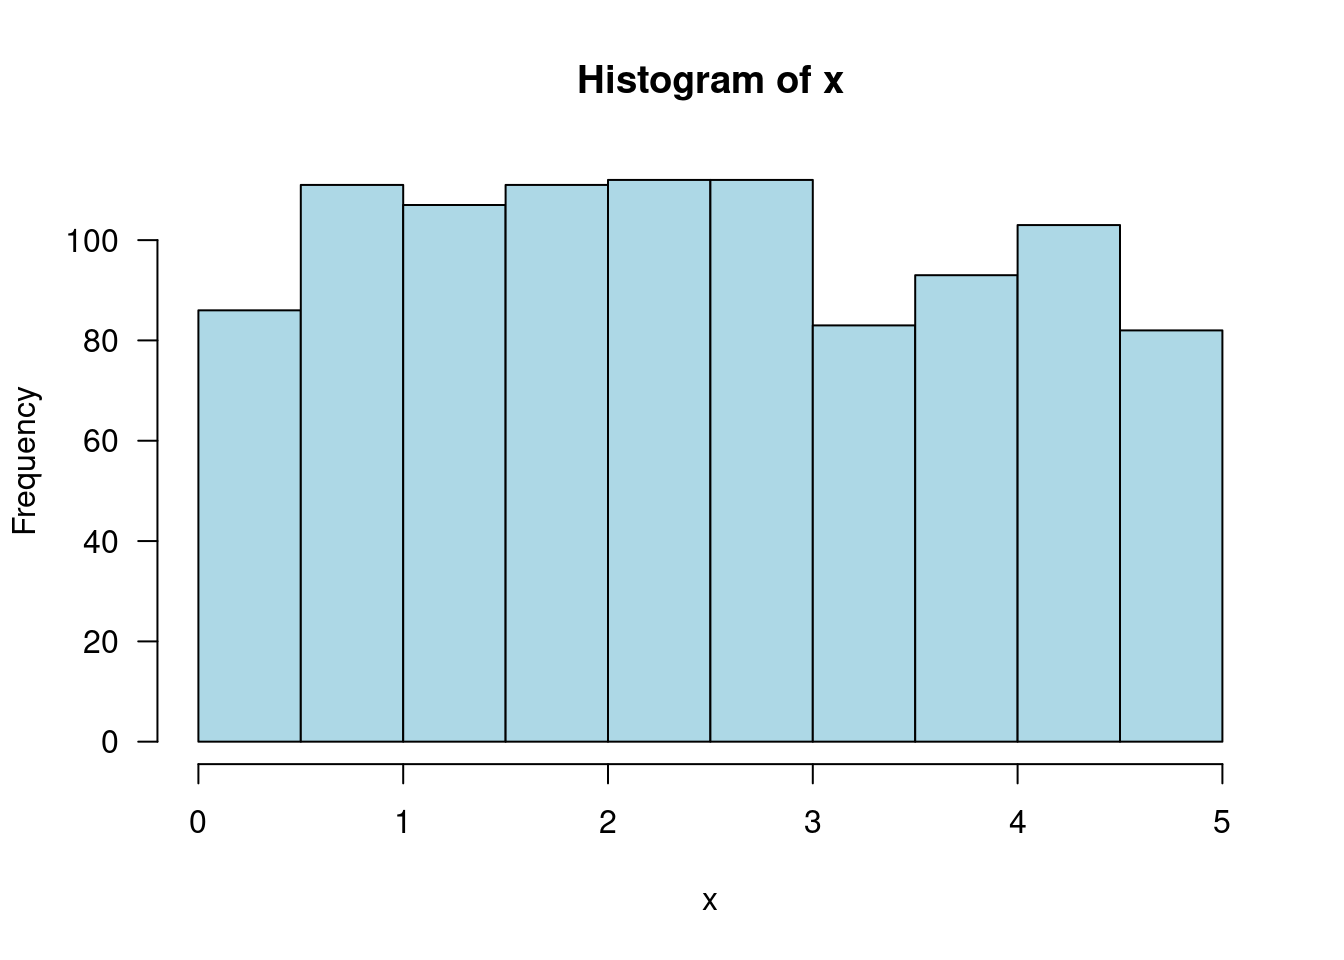
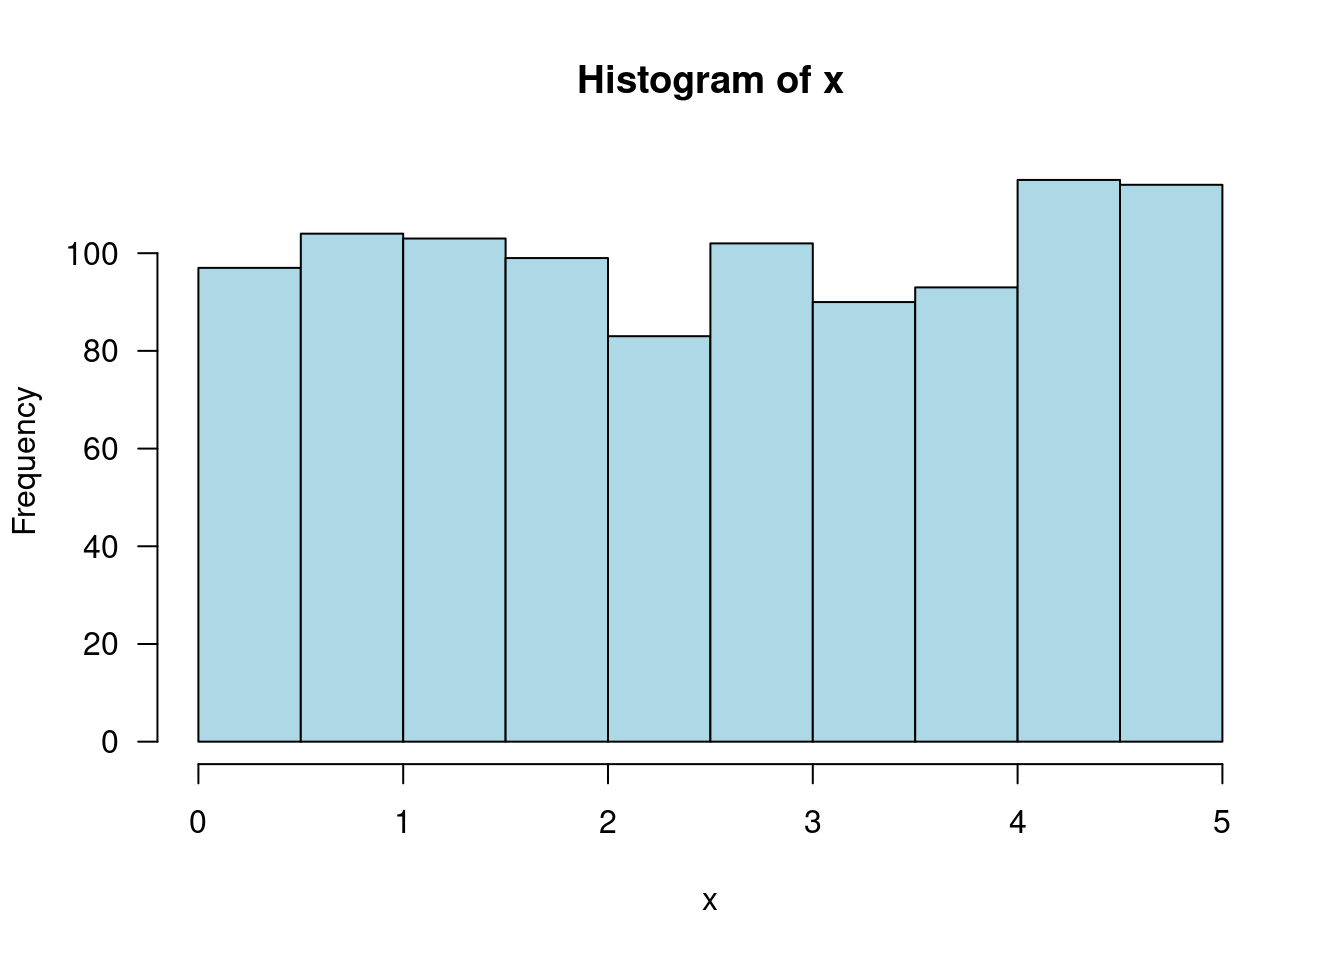
Deploying to gh-pages from @ jtr13/1201@b207cd0bbda654afca53f6d8b6f0e8fd9f7e5606 🚀

diff --git a/ch.-4-continuous-random-variables-and-probability-distributions.html b/ch.-4-continuous-random-variables-and-probability-distributions.html
@@ -81,12 +81,12 @@
 <p><span class="math inline">\(f(x) = .2\)</span> for <span class="math inline">\(0 \leq x \leq 5\)</span>, 0 otherwise.</p>
 <div class="sourceCode" id="cb157"><pre class="downlit sourceCode r">
 <code class="sourceCode R"><span><span class="fu"><a href="https://rdrr.io/r/stats/Uniform.html">runif</a></span><span class="op">(</span>n <span class="op">=</span> <span class="fl">1</span>, min <span class="op">=</span> <span class="fl">0</span>, max <span class="op">=</span> <span class="fl">5</span><span class="op">)</span></span></code></pre></div>
-<pre><code>## [1] 1.462599</code></pre>
+<pre><code>## [1] 3.539538</code></pre>
 <p>Take the average of 1000 picks:</p>
 <div class="sourceCode" id="cb159"><pre class="downlit sourceCode r">
 <code class="sourceCode R"><span><span class="va">x</span> <span class="op">&lt;-</span> <span class="fu"><a href="https://rdrr.io/r/stats/Uniform.html">runif</a></span><span class="op">(</span>n <span class="op">=</span> <span class="fl">1000</span>, min <span class="op">=</span> <span class="fl">0</span>, max <span class="op">=</span> <span class="fl">5</span><span class="op">)</span></span>
 <span><span class="fu"><a href="https://rdrr.io/r/base/mean.html">mean</a></span><span class="op">(</span><span class="va">x</span><span class="op">)</span></span></code></pre></div>
-<pre><code>## [1] 2.441114</code></pre>
+<pre><code>## [1] 2.545752</code></pre>
 <p>Draw a histogram of the 1000 picks:</p>
 <div class="sourceCode" id="cb161"><pre class="downlit sourceCode r">
 <code class="sourceCode R"><span><span class="fu"><a href="https://rdrr.io/r/graphics/hist.html">hist</a></span><span class="op">(</span><span class="va">x</span>, las <span class="op">=</span> <span class="fl">1</span>, col <span class="op">=</span> <span class="st">"lightblue"</span><span class="op">)</span></span></code></pre></div>
@@ -269,7 +269,7 @@ aid, sothat <em>p = .25</em>. What is the probability that at most 10 students r
 <footer class="bg-primary text-light mt-5"><div class="container"><div class="row">
 
   <div class="col-12 col-md-6 mt-3">
-    <p>"<strong>Stat 1201 Resources</strong>" was written by Joyce Robbins. It was last built on 2024-01-24.</p>
+    <p>"<strong>Stat 1201 Resources</strong>" was written by Joyce Robbins. It was last built on 2024-01-25.</p>
   </div>
 
   <div class="col-12 col-md-6 mt-3">

diff --git a/ch.-1-descriptive-statistics.html b/ch.-1-descriptive-statistics.html
@@ -76,12 +76,12 @@
 <p><strong>Ex:</strong> To generate a sample of 6 numbers from the integers between 1 and 20:</p>
 <div class="sourceCode" id="cb25"><pre class="downlit sourceCode r">
 <code class="sourceCode R"><span><span class="fu"><a href="https://rdrr.io/r/base/sample.html">sample</a></span><span class="op">(</span>x <span class="op">=</span> <span class="fl">1</span><span class="op">:</span><span class="fl">20</span>, size  <span class="op">=</span> <span class="fl">6</span><span class="op">)</span></span></code></pre></div>
-<pre><code>## [1]  5 19 13  9  1  8</code></pre>
+<pre><code>## [1] 17 19 20 16  1  4</code></pre>
 <p>Note: this syntax assumes that there is no replacement (it won’t pick the same number twice).
 If you want to sample <em>with</em> replacement use the following:</p>
 <div class="sourceCode" id="cb27"><pre class="downlit sourceCode r">
 <code class="sourceCode R"><span><span class="fu"><a href="https://rdrr.io/r/base/sample.html">sample</a></span><span class="op">(</span>x <span class="op">=</span> <span class="fl">1</span><span class="op">:</span><span class="fl">20</span>, size <span class="op">=</span> <span class="fl">8</span>, replace <span class="op">=</span> <span class="cn">TRUE</span><span class="op">)</span></span></code></pre></div>
-<pre><code>## [1]  5 18 19 16 10  1 20 15</code></pre>
+<pre><code>## [1] 20 20 17  4 12 14 15  5</code></pre>
 </div>
 <div id="pictorial-and-tabular-methods-in-descriptive-statistics" class="section level2 unnumbered" number="">
 <h2>1.2 Pictorial and Tabular Methods in Descriptive Statistics<a class="anchor" aria-label="anchor" href="#pictorial-and-tabular-methods-in-descriptive-statistics"><i class="fas fa-link"></i></a>
@@ -367,7 +367,7 @@ We use an almost identical syntax to generate density histograms, but add a cond
 <footer class="bg-primary text-light mt-5"><div class="container"><div class="row">
 
   <div class="col-12 col-md-6 mt-3">
-    <p>"<strong>Stat 1201 Resources</strong>" was written by Joyce Robbins. It was last built on 2024-01-24.</p>
+    <p>"<strong>Stat 1201 Resources</strong>" was written by Joyce Robbins. It was last built on 2024-01-25.</p>
   </div>
 
   <div class="col-12 col-md-6 mt-3">

diff --git a/404.html b/404.html
@@ -84,7 +84,7 @@ the table of contents to find the page you are looking for.</p>
 <footer class="bg-primary text-light mt-5"><div class="container"><div class="row">
 
   <div class="col-12 col-md-6 mt-3">
-    <p>"<strong>Stat 1201 Resources</strong>" was written by Joyce Robbins. It was last built on 2024-01-24.</p>
+    <p>"<strong>Stat 1201 Resources</strong>" was written by Joyce Robbins. It was last built on 2024-01-25.</p>
   </div>
 
   <div class="col-12 col-md-6 mt-3">

diff --git a/ch.-5-joint-probability.html b/ch.-5-joint-probability.html
@@ -147,7 +147,7 @@ Two points are needed to calculate r.
 <footer class="bg-primary text-light mt-5"><div class="container"><div class="row">
 
   <div class="col-12 col-md-6 mt-3">
-    <p>"<strong>Stat 1201 Resources</strong>" was written by Joyce Robbins. It was last built on 2024-01-24.</p>
+    <p>"<strong>Stat 1201 Resources</strong>" was written by Joyce Robbins. It was last built on 2024-01-25.</p>
   </div>
 
   <div class="col-12 col-md-6 mt-3">

diff --git a/ch.-12-linear-regression.html b/ch.-12-linear-regression.html
@@ -299,7 +299,7 @@
 <footer class="bg-primary text-light mt-5"><div class="container"><div class="row">
 
   <div class="col-12 col-md-6 mt-3">
-    <p>"<strong>Stat 1201 Resources</strong>" was written by Joyce Robbins. It was last built on 2024-01-24.</p>
+    <p>"<strong>Stat 1201 Resources</strong>" was written by Joyce Robbins. It was last built on 2024-01-25.</p>
   </div>
 
   <div class="col-12 col-md-6 mt-3">

diff --git a/ch.-13-nonlinear-and-multiple-regression.html b/ch.-13-nonlinear-and-multiple-regression.html
@@ -104,7 +104,7 @@
 <footer class="bg-primary text-light mt-5"><div class="container"><div class="row">
 
   <div class="col-12 col-md-6 mt-3">
-    <p>"<strong>Stat 1201 Resources</strong>" was written by Joyce Robbins. It was last built on 2024-01-24.</p>
+    <p>"<strong>Stat 1201 Resources</strong>" was written by Joyce Robbins. It was last built on 2024-01-25.</p>
   </div>
 
   <div class="col-12 col-md-6 mt-3">

diff --git a/ch.-14-chi-squared-test.html b/ch.-14-chi-squared-test.html
@@ -250,7 +250,7 @@
 <footer class="bg-primary text-light mt-5"><div class="container"><div class="row">
 
   <div class="col-12 col-md-6 mt-3">
-    <p>"<strong>Stat 1201 Resources</strong>" was written by Joyce Robbins. It was last built on 2024-01-24.</p>
+    <p>"<strong>Stat 1201 Resources</strong>" was written by Joyce Robbins. It was last built on 2024-01-25.</p>
   </div>
 
   <div class="col-12 col-md-6 mt-3">

diff --git a/ch.-2-conditional-probability.html b/ch.-2-conditional-probability.html
@@ -106,7 +106,7 @@
 <footer class="bg-primary text-light mt-5"><div class="container"><div class="row">
 
   <div class="col-12 col-md-6 mt-3">
-    <p>"<strong>Stat 1201 Resources</strong>" was written by Joyce Robbins. It was last built on 2024-01-24.</p>
+    <p>"<strong>Stat 1201 Resources</strong>" was written by Joyce Robbins. It was last built on 2024-01-25.</p>
   </div>
 
   <div class="col-12 col-md-6 mt-3">

diff --git a/ch.-2-probability.html b/ch.-2-probability.html
@@ -152,7 +152,7 @@
 <footer class="bg-primary text-light mt-5"><div class="container"><div class="row">
 
   <div class="col-12 col-md-6 mt-3">
-    <p>"<strong>Stat 1201 Resources</strong>" was written by Joyce Robbins. It was last built on 2024-01-24.</p>
+    <p>"<strong>Stat 1201 Resources</strong>" was written by Joyce Robbins. It was last built on 2024-01-25.</p>
   </div>
 
   <div class="col-12 col-md-6 mt-3">

diff --git a/ch.-3-discrete-distributions.html b/ch.-3-discrete-distributions.html
@@ -364,7 +364,7 @@
 <footer class="bg-primary text-light mt-5"><div class="container"><div class="row">
 
   <div class="col-12 col-md-6 mt-3">
-    <p>"<strong>Stat 1201 Resources</strong>" was written by Joyce Robbins. It was last built on 2024-01-24.</p>
+    <p>"<strong>Stat 1201 Resources</strong>" was written by Joyce Robbins. It was last built on 2024-01-25.</p>
   </div>
 
   <div class="col-12 col-md-6 mt-3">

diff --git a/ch.-5-random-samples.html b/ch.-5-random-samples.html
@@ -107,7 +107,7 @@
 <footer class="bg-primary text-light mt-5"><div class="container"><div class="row">
 
   <div class="col-12 col-md-6 mt-3">
-    <p>"<strong>Stat 1201 Resources</strong>" was written by Joyce Robbins. It was last built on 2024-01-24.</p>
+    <p>"<strong>Stat 1201 Resources</strong>" was written by Joyce Robbins. It was last built on 2024-01-25.</p>
   </div>
 
   <div class="col-12 col-md-6 mt-3">

diff --git a/ch.-6-point-estimation.html b/ch.-6-point-estimation.html
@@ -108,7 +108,7 @@
 <footer class="bg-primary text-light mt-5"><div class="container"><div class="row">
 
   <div class="col-12 col-md-6 mt-3">
-    <p>"<strong>Stat 1201 Resources</strong>" was written by Joyce Robbins. It was last built on 2024-01-24.</p>
+    <p>"<strong>Stat 1201 Resources</strong>" was written by Joyce Robbins. It was last built on 2024-01-25.</p>
   </div>
 
   <div class="col-12 col-md-6 mt-3">
